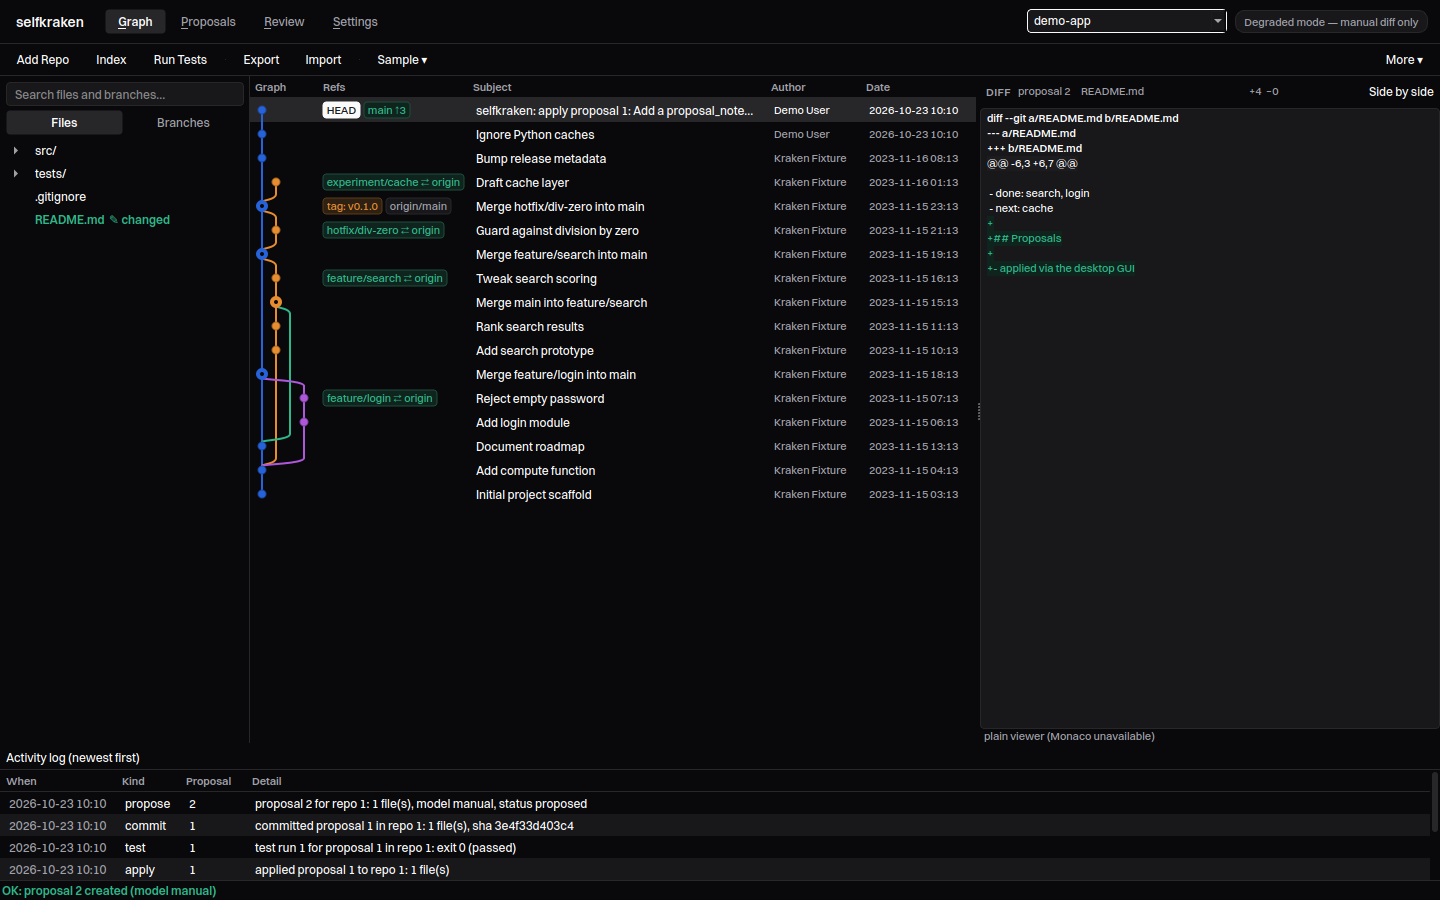
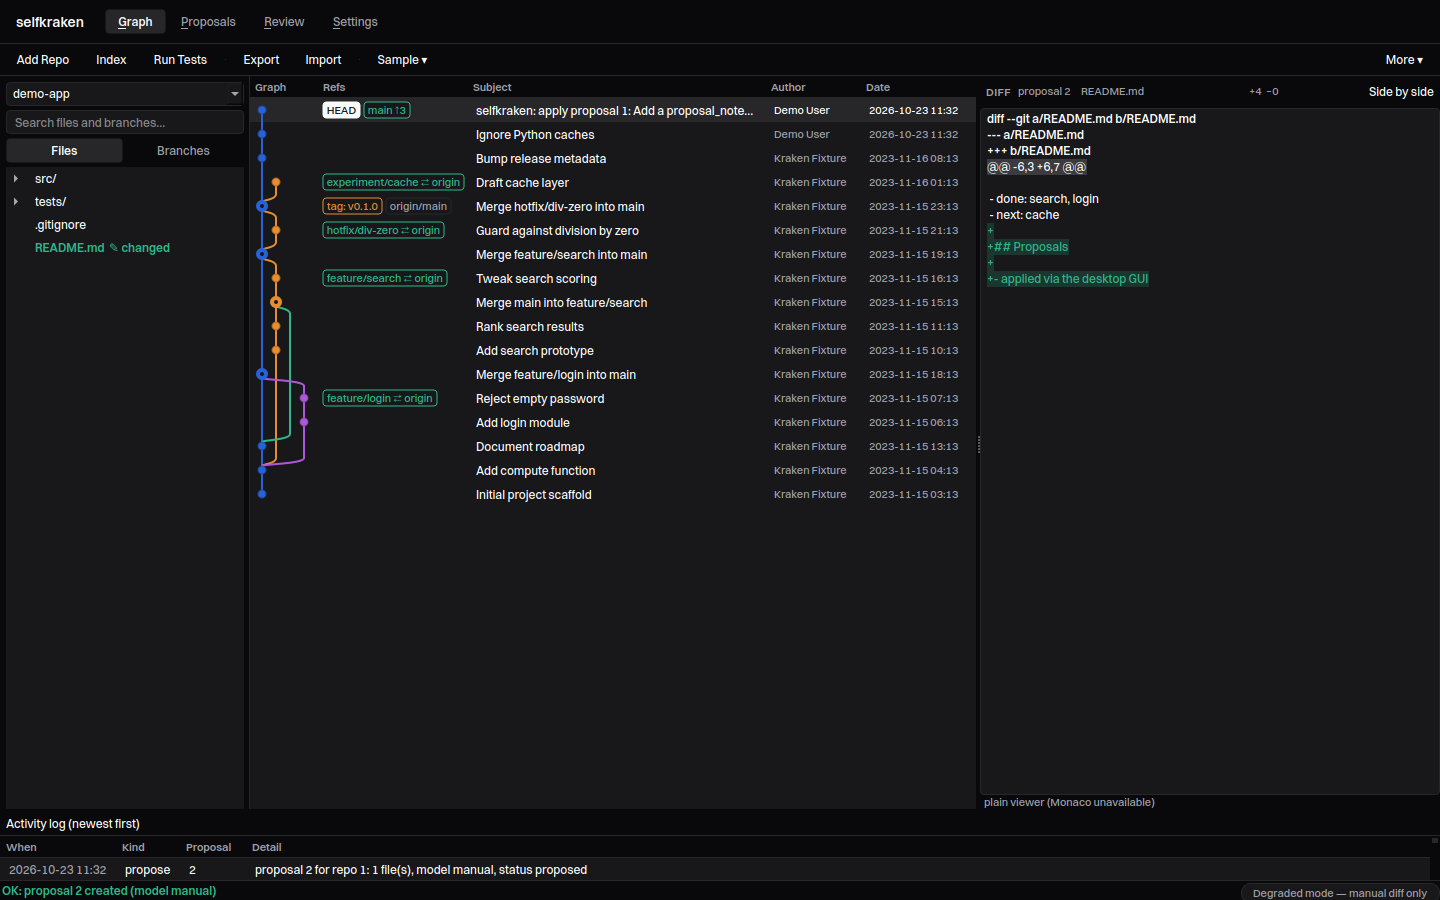
gui: repository picker into the explorer, model state into the status bar, branches filter the graph
- the top bar is the wordmark and the pages, nothing else; the repo combo is the
  first control in the left column, above the search, where the work is read
- the model pill moved from the top bar to the status bar: it is information,
  not a control
- clicking a branch shows that branch's history in the middle column
  (read_commits takes a ref), with a strip naming the filter and a ✕ to clear
- README and screenshots follow

diff --git a/selfkraken/gui/app.py b/selfkraken/gui/app.py
@@ -940,6 +940,7 @@ class MainWindow(QMainWindow):
         self.confirm_handler: Optional[Callable[[str, str], bool]] = None
 
         self._current_repo_id: Optional[int] = None
+        self._graph_ref: Optional[str] = None
         self._selected_proposal_id: Optional[int] = None
         self._suppress_signals = False
         self._docks_balanced = False
@@ -1086,42 +1087,6 @@ class MainWindow(QMainWindow):
         row.addWidget(self.tab_bar)
         row.addStretch(1)
 
-        self.repo_combo = QComboBox()
-        self.repo_combo.setMinimumWidth(REPO_COMBO_WIDTH)
-        self.repo_combo.setFixedHeight(control_height(INPUT_HEIGHT, FONT_PT))
-        self.repo_combo.setSizePolicy(
-            QSizePolicy.Policy.Preferred, QSizePolicy.Policy.Fixed
-        )
-        self.repo_combo.setAccessibleName("Repository selector")
-        self.repo_combo.setToolTip("The repository every action works on")
-        self.repo_combo.currentIndexChanged.connect(self._on_repo_combo_changed)
-        row.addWidget(self.repo_combo)
-
-        self.model_status = QLabel("")
-        self.model_status.setObjectName("modelPill")
-        self.model_status.setAccessibleName("Model status")
-        self.model_status.setTextFormat(Qt.TextFormat.PlainText)
-        self.model_status.setFixedHeight(control_height(PILL_HEIGHT, FONT_PT))
-        self.model_status.setAlignment(Qt.AlignmentFlag.AlignCenter)
-        if self.settings.llm_enabled:
-            host = _host_of(self.settings.llm_base_url or "")
-            self.model_status.setText(f"Model: {self.settings.llm_model} @ {host}")
-            self.model_status.setToolTip(
-                "Proposals are generated by this OpenAI-compatible endpoint.\n"
-                "Configure it with SK_LLM_BASE_URL / SK_LLM_MODEL / SK_LLM_API_KEY\n"
-                "in the .env next to where you launch skraken."
-            )
-        else:
-            self.model_status.setText("Degraded mode — manual diff only")
-            self.model_status.setToolTip(
-                "No model is configured (that is fine — manual proposals still work).\n"
-                "To enable model proposals, set in .env:\n"
-                "  SK_LLM_BASE_URL=http://localhost:11434/v1\n"
-                "  SK_LLM_MODEL=qwen2.5-coder:7b\n"
-                "SK_LLM_API_KEY is optional (never printed, never stored).\n"
-                "Or paste a unified diff in the 'New proposal' section instead."
-            )
-        row.addWidget(self.model_status)
 
     def _build_toolbar(self) -> None:
         """One compact row: repo selector | actions | sample menu … model pill."""
@@ -1252,10 +1217,37 @@ class MainWindow(QMainWindow):
 
         # -- the workspace: files on the left, commits in the middle, and the
         #    selected commit's diff on the right -----------------------------
+        self.graph_page = QWidget()
+        self.graph_page.setObjectName("graphPage")
+        graph_box = QVBoxLayout(self.graph_page)
+        graph_box.setContentsMargins(0, 0, 0, 0)
+        graph_box.setSpacing(0)
+
+        self.branch_strip = QFrame()
+        self.branch_strip.setObjectName("branchStrip")
+        self.branch_strip.setFixedHeight(control_height(HEADER_HEIGHT, META_PT))
+        strip_row = QHBoxLayout(self.branch_strip)
+        strip_row.setContentsMargins(MARGIN_PANEL, 0, MARGIN_PANEL, 0)
+        strip_row.setSpacing(SPACE_6)
+        strip_title = QLabel("BRANCH")
+        strip_title.setObjectName("paneTitle")
+        self.branch_strip_label = ElidedLabel("all branches", self.palette, muted=True)
+        self.branch_strip_clear = QToolButton()
+        self.branch_strip_clear.setText("✕")
+        self.branch_strip_clear.setToolTip("Show every branch again")
+        self.branch_strip_clear.setAutoRaise(True)
+        self.branch_strip_clear.clicked.connect(self._clear_branch_filter)
+        strip_row.addWidget(strip_title)
+        strip_row.addWidget(self.branch_strip_label, 1)
+        strip_row.addWidget(self.branch_strip_clear, 0)
+        graph_box.addWidget(self.branch_strip)
+        graph_box.addWidget(self.graph_stack, 1)
+        self.branch_strip.setVisible(False)
+
         self.workspace = QSplitter(Qt.Orientation.Horizontal)
         self.workspace.setObjectName("workspace")
         self.workspace.setChildrenCollapsible(False)
-        self.workspace.addWidget(self.graph_stack)
+        self.workspace.addWidget(self.graph_page)
         self.tabs.addTab(self.workspace, "&Graph")
         self.tabs.addTab(self.proposals_stack, "&Proposals")
 
@@ -1461,6 +1453,29 @@ class MainWindow(QMainWindow):
             if isinstance(getattr(delegate, "palette", None), Palette):
                 delegate.palette = self.palette
             view.viewport().update()
+
+    def _on_branch_selected(self, current, _previous=None) -> None:
+        """Clicking a branch shows that branch's history in the middle."""
+        if not current.isValid():
+            return
+        model = self.branches_proxy
+        index = model.mapToSource(current) if current.model() is model else current
+        item = self.branch_model.item_at(index.row()) if hasattr(
+            self.branch_model, "item_at"
+        ) else None
+        name = getattr(getattr(item, "branch", None), "name", "")
+        if not name:
+            return
+        self._graph_ref = name
+        self.branch_strip_label.setText(name)
+        self.branch_strip.setVisible(True)
+        self.load_graph()
+
+    def _clear_branch_filter(self) -> None:
+        self._graph_ref = None
+        self.branch_strip.setVisible(False)
+        self.branches_view.clearSelection()
+        self.load_graph()
 
     def _on_explorer_search(self, text: str) -> None:
         """One box, both lists: a file path or a branch name narrows the column."""
@@ -1719,6 +1734,9 @@ class MainWindow(QMainWindow):
         self.branches_view.setModel(self.branches_proxy)
         compact_item_view(self.branches_view)
         self.branches_view.setAccessibleName("Branch list")
+        self.branches_view.selectionModel().currentChanged.connect(
+            self._on_branch_selected
+        )
         self.branches_empty = notice_page("No branches to show.", self.palette)
         self.branches_stack = QStackedWidget()
         self.branches_stack.addWidget(self.branches_empty)
@@ -1731,6 +1749,17 @@ class MainWindow(QMainWindow):
         explorer_box = QVBoxLayout(explorer)
         explorer_box.setContentsMargins(MARGIN_PANEL, MARGIN_PANEL, MARGIN_PANEL, 0)
         explorer_box.setSpacing(SPACE_4)
+
+        self.repo_combo = QComboBox()
+        self.repo_combo.setObjectName("repoPicker")
+        self.repo_combo.setFixedHeight(control_height(INPUT_HEIGHT, FONT_PT))
+        self.repo_combo.setSizePolicy(
+            QSizePolicy.Policy.Expanding, QSizePolicy.Policy.Fixed
+        )
+        self.repo_combo.setAccessibleName("Repository selector")
+        self.repo_combo.setToolTip("The repository every action works on")
+        self.repo_combo.currentIndexChanged.connect(self._on_repo_combo_changed)
+        explorer_box.addWidget(self.repo_combo)
 
         self.explorer_search = QLineEdit()
         self.explorer_search.setObjectName("explorerSearch")
@@ -2190,6 +2219,28 @@ class MainWindow(QMainWindow):
         self.status_label = ElidedLabel("Ready.", self.palette)
         self.status_label.setAccessibleName("Status message")
         bar.addWidget(self.status_label, 1)
+        self.model_status = QLabel("")
+        self.model_status.setObjectName("modelPill")
+        self.model_status.setAccessibleName("Model status")
+        self.model_status.setTextFormat(Qt.TextFormat.PlainText)
+        if self.settings.llm_enabled:
+            host = _host_of(self.settings.llm_base_url or "")
+            self.model_status.setText(f"Model: {self.settings.llm_model} @ {host}")
+            self.model_status.setToolTip(
+                "Proposals are generated by this OpenAI-compatible endpoint.\n"
+                "Configure it with SK_LLM_BASE_URL / SK_LLM_MODEL / SK_LLM_API_KEY\n"
+                "in the .env next to where you launch skraken."
+            )
+        else:
+            self.model_status.setText("Degraded mode — manual diff only")
+            self.model_status.setToolTip(
+                "No model is configured (that is fine — manual proposals still work).\n"
+                "To enable model proposals, set in .env:\n"
+                "  SK_LLM_BASE_URL=http://localhost:11434/v1\n"
+                "  SK_LLM_MODEL=qwen2.5-coder:7b\n"
+                "SK_LLM_API_KEY is optional (never printed, never stored)."
+            )
+        bar.addPermanentWidget(self.model_status)
         self.status_busy = BusyBar(width=SPACE_12 * 8)
         bar.addPermanentWidget(self.status_busy)
 
@@ -2553,8 +2604,10 @@ class MainWindow(QMainWindow):
             return
         repo_path = Path(repo.path)
 
+        ref = getattr(self, "_graph_ref", None)
+
         def job(_store: Store, _settings: Settings):
-            rows = layout(read_commits(repo_path, limit=GRAPH_LIMIT))
+            rows = layout(read_commits(repo_path, limit=GRAPH_LIMIT, ref=ref))
             return rows, list_branches(repo_path)
 
         self.runner.submit(

diff --git a/tests/test_gui.py b/tests/test_gui.py
@@ -895,3 +895,31 @@ def test_settings_appearance_switches_theme_and_remembers_it(
         assert reopened.palette.name == "light", "the choice did not survive a start"
     finally:
         reopened.close()
+
+
+def test_selecting_a_branch_filters_the_middle_column(
+    qapp, gui_settings, no_dialogs, tmp_path
+) -> None:
+    """The branch list is a control, not decoration: it narrows the graph."""
+    from fixtures_git import make_multibranch_repo
+
+    from selfkraken.gui.app import MainWindow
+
+    repo = make_multibranch_repo(tmp_path / "demo")
+    window = MainWindow(run_jobs_inline=True, theme="dark", settings=gui_settings)
+    try:
+        window.add_repo(repo, None)
+        window.index_repo()
+        assert window.graph_view.table_model.rowCount() > 3
+        assert window.branch_model.rowCount() > 0
+
+        window.branches_view.setCurrentIndex(window.branches_proxy.index(0, 0))
+        assert window._graph_ref, "picking a branch sets the filter"
+        assert window.branch_strip.isVisibleTo(window)
+        assert window.branch_strip_label.text() == window._graph_ref
+
+        window._clear_branch_filter()
+        assert window._graph_ref is None
+        assert not window.branch_strip.isVisibleTo(window)
+    finally:
+        window.close()

diff --git a/selfkraken/graph.py b/selfkraken/graph.py
@@ -106,7 +106,11 @@ def _parse_ref_entries(raw: str) -> list[str]:
 
 
 def read_commits(
-    repo_path: Path, *, limit: int = 200, all_refs: bool = True
+    repo_path: Path,
+    *,
+    limit: int = 200,
+    all_refs: bool = True,
+    ref: str | None = None,
 ) -> list[Commit]:
     """Return commits newest-first in topological order (parents after children).
 
@@ -114,7 +118,10 @@ def read_commits(
     """
     fmt = "%x1f".join(["%H", "%h", "%P", "%ad", "%D", "%an", "%s"]) + "%x00"
     args = ["log"]
-    if all_refs:
+    if ref:
+        # one branch's history, newest first
+        args.append(str(ref))
+    elif all_refs:
         args.append("--all")
     args += [
         "--topo-order",

diff --git a/selfkraken/gui/models.py b/selfkraken/gui/models.py
@@ -559,6 +559,12 @@ class BranchListModel(QAbstractListModel):
         self._palette = palette
         self._items: list[BranchItem] = []
 
+    def item_at(self, row: int):
+        """The BranchItem at ``row`` (None when the model has no such row)."""
+        if 0 <= row < len(self._items):
+            return self._items[row]
+        return None
+
     def set_branches(self, branches: Sequence[Branch]) -> None:
         self.beginResetModel()
         self._items = [BranchItem(b) for b in branches]

diff --git a/README.md b/README.md
@@ -276,16 +276,18 @@ scripts/install.sh                 # installs '.[dev,gui]' (includes PySide6)
 .venv/bin/skraken gui --theme light
 ```
 
-**The shell is one workspace.** A single 44px top bar carries the wordmark,
-the page strip (**Graph · Proposals · Review · Settings**), the repository
-selector and the model state; one row of actions sits under it (**Add Repo**,
-**Index**, **Run Tests**, **Export/Import**, **Sample**, **More**).
+**The shell is one workspace.** A single 44px top bar carries the wordmark and
+the page strip (**Graph · Proposals · Review · Settings**); one row of actions
+sits under it (**Add Repo**, **Index**, **Run Tests**, **Export/Import**,
+**Sample**, **More**). The repository you are looking at, and the model state,
+are not up there: the picker is the first thing in the left column, and the
+model answer sits in the status bar, out of the way.
 
 Below that, the Graph page is three columns, splitter-resizable:
 
 | Column | What it holds |
 | --- | --- |
-| **Explorer** (left) | one **search box** over both lists, then **Files** and **Branches** as tabs: files touched by the selection are marked `✎ changed`, double-click opens one read-only in its own tab |
+| **Explorer** (left) | the **repository picker**, a **search box** over both lists, then **Files** and **Branches** as tabs: files touched by the selection are marked `✎ changed`, double-click opens one read-only in its own tab; **clicking a branch narrows the middle column to that branch's history**, with a ✕ on the strip above the graph to go back to all of them |
 | **Commits** (middle) | the **commit graph**: painted lanes, merge rings, ref badges like `HEAD`, `main ↑2`, `tag: v0.1.0`, `feature/login ⇄ origin` |
 | **Diff** (right) | **Monaco**, always: click a commit and its patch appears file by file; select a proposal and its diff replaces it. There is no separate Changes tab — the diff is a column, not a place you navigate to |
 
